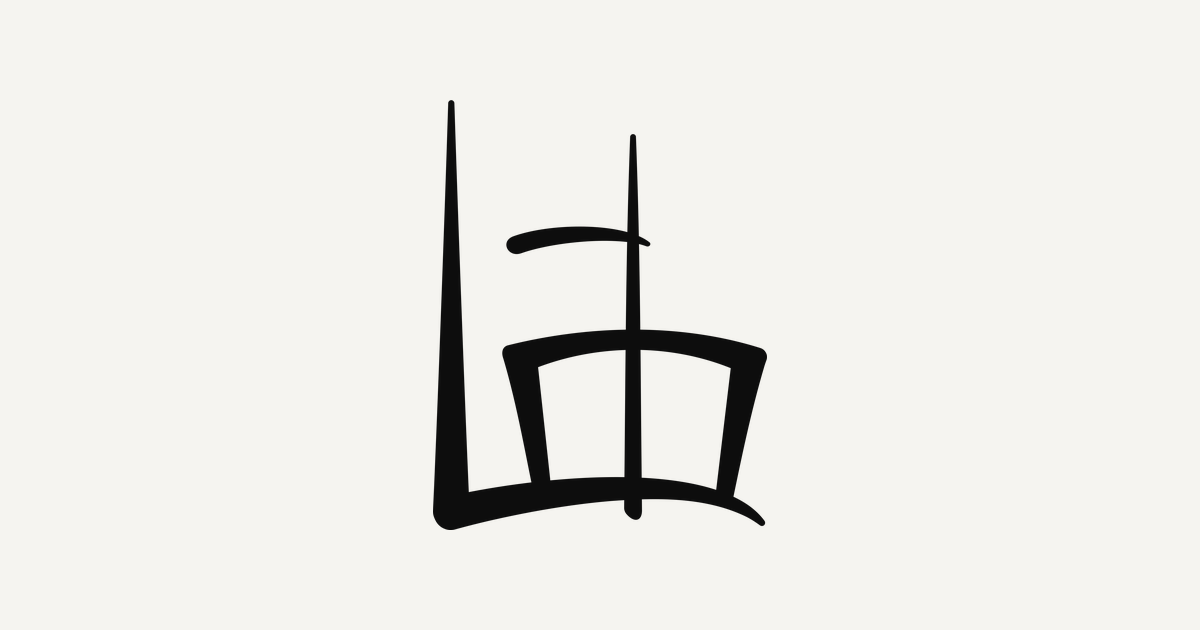
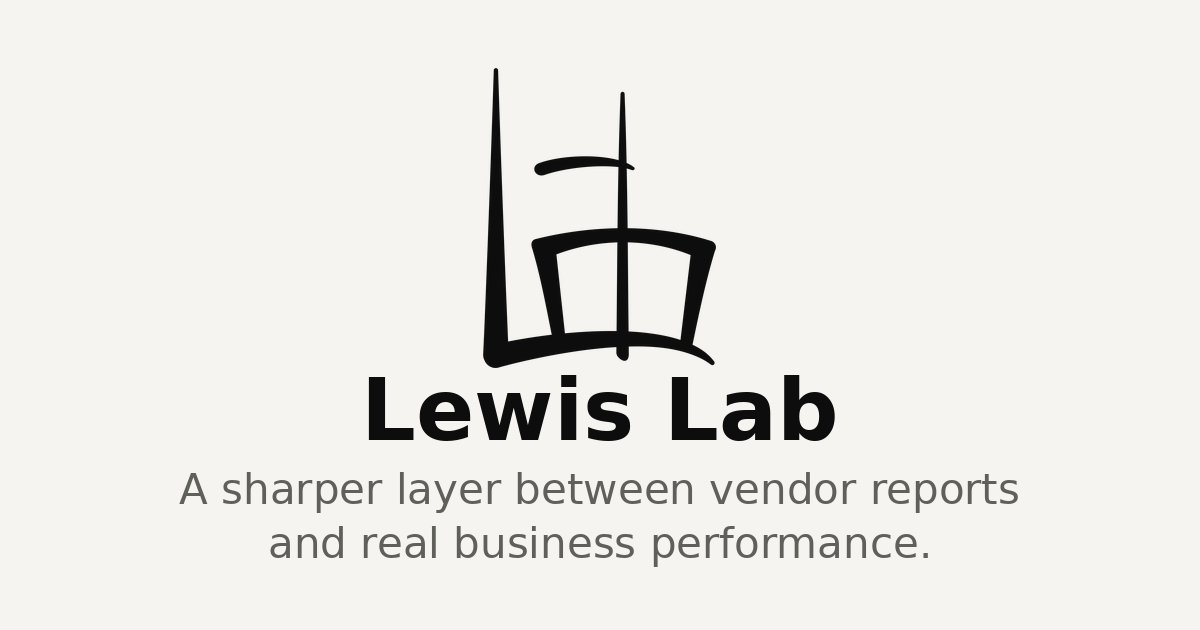
Update social preview title and image

Changed region(s): [[0.1542, 0.1206, 0.8633, 0.9048]]

diff --git a/index.html b/index.html
@@ -9,15 +9,17 @@
   <link rel="apple-touch-icon" href="apple-touch-icon.png" />
   <meta name="description" content="A sharper layer between vendor reports and real business performance." />
 
-  <meta property="og:title" content="Lewis Lab | Performance Diagnostic Advisory" />
+  <meta property="og:title" content="Lewis Lab" />
   <meta property="og:description" content="A sharper layer between vendor reports and real business performance." />
   <meta property="og:type" content="website" />
   <meta property="og:url" content="https://lewislab.io/" />
   <meta property="og:site_name" content="Lewis Lab" />
   <meta property="og:image" content="https://lewislab.io/og-image.png" />
+  <meta property="og:image:width" content="1200" />
+  <meta property="og:image:height" content="630" />
 
   <meta name="twitter:card" content="summary_large_image" />
-  <meta name="twitter:title" content="Lewis Lab | Performance Diagnostic Advisory" />
+  <meta name="twitter:title" content="Lewis Lab" />
   <meta name="twitter:description" content="A sharper layer between vendor reports and real business performance." />
   <meta name="twitter:image" content="https://lewislab.io/og-image.png" />
 
